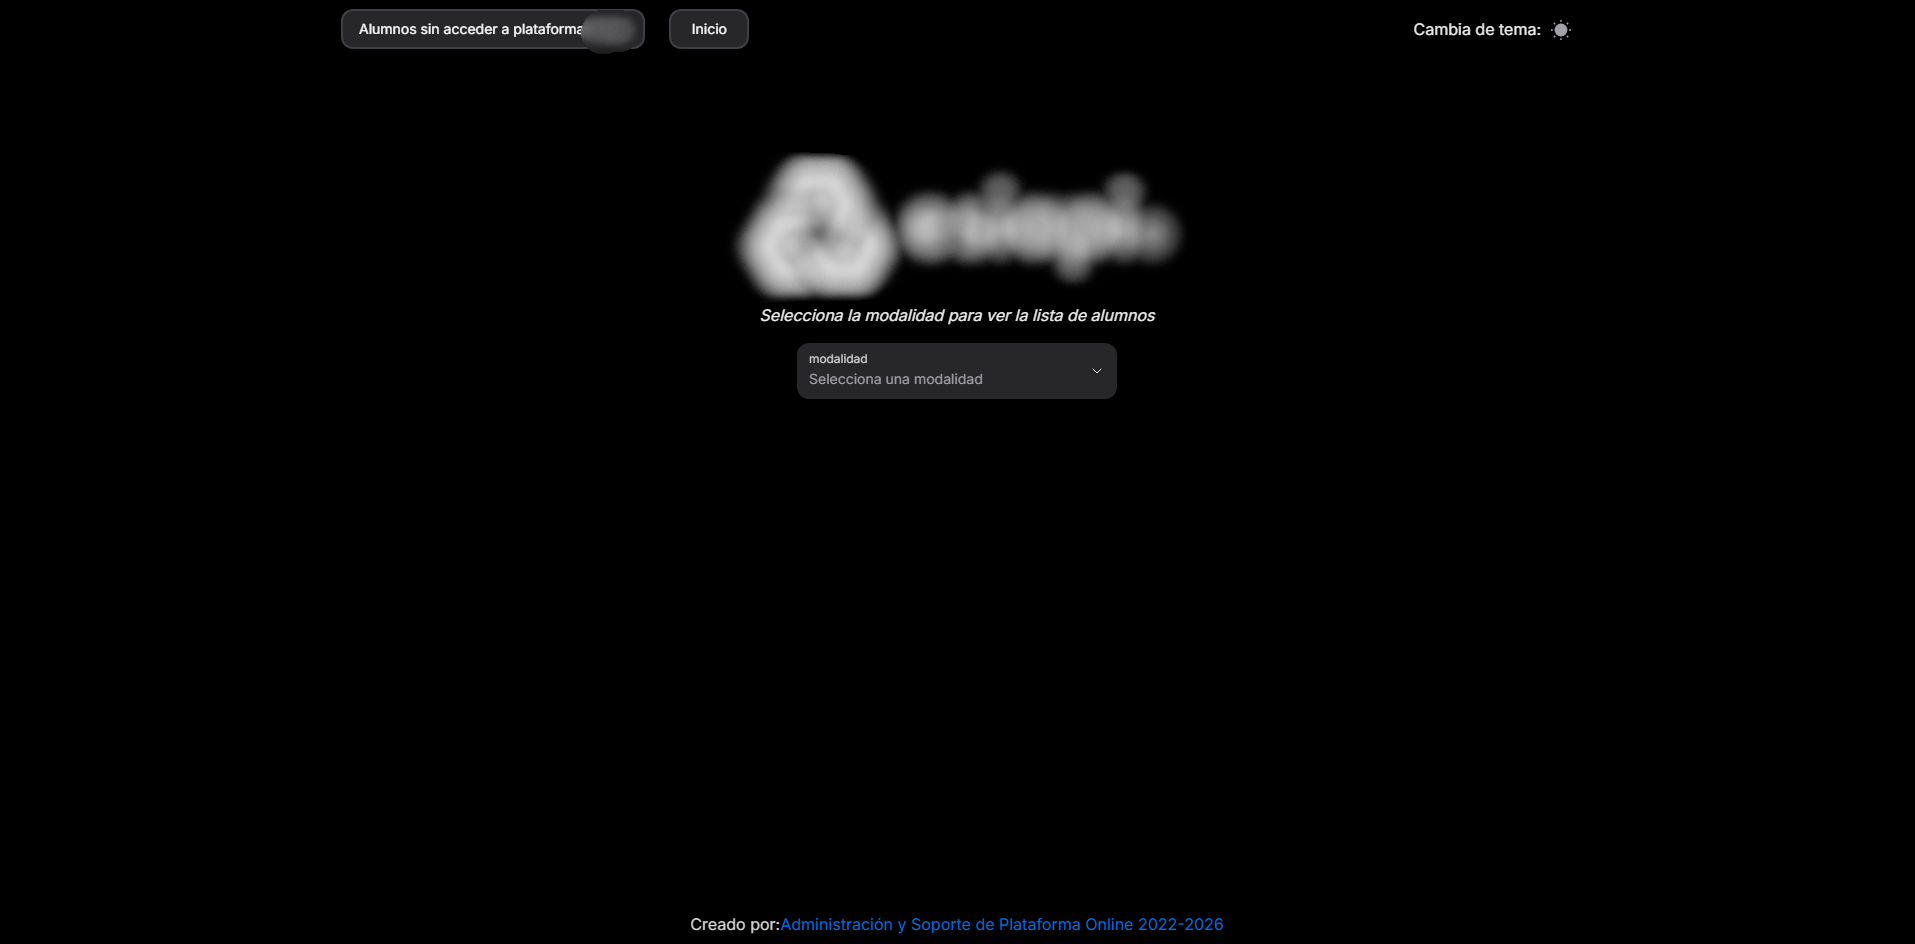
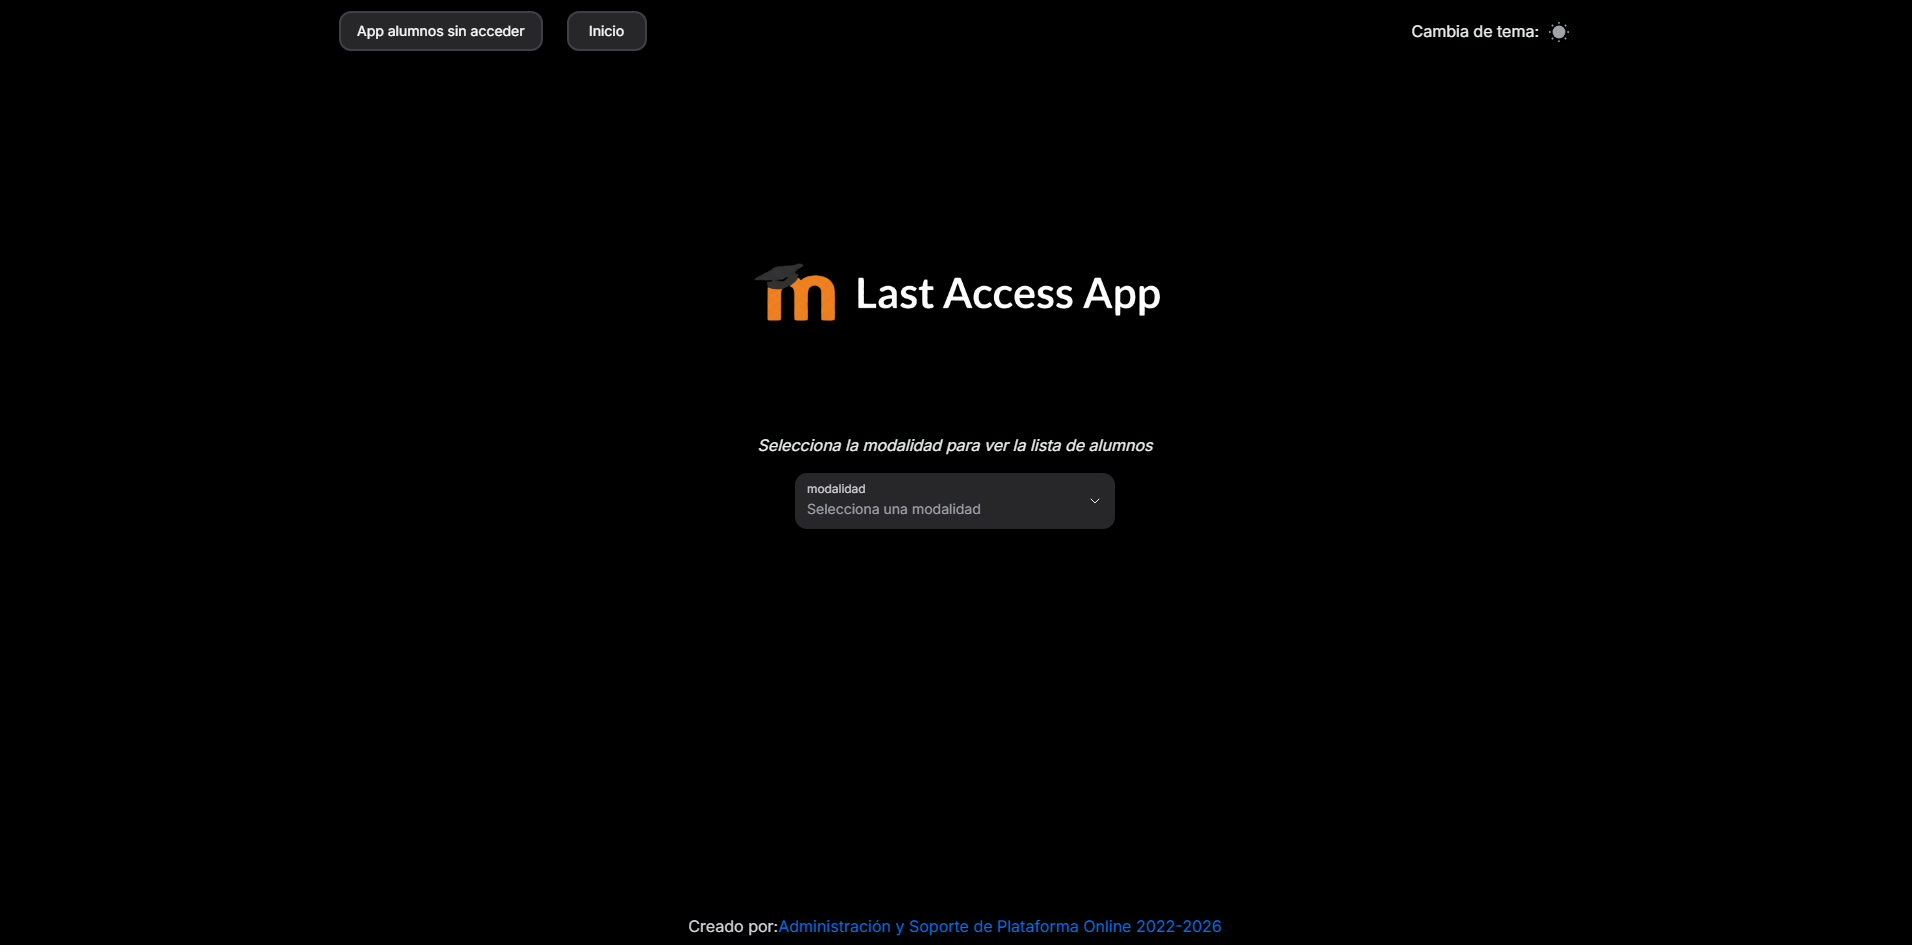
adding dark-to-light image button to 'last access project' page

diff --git a/src/pages/lastAccessPj.jsx b/src/pages/lastAccessPj.jsx
@@ -12,18 +12,17 @@ import mysqlimg from "../assets/mysql.png"
 import langselector from "../assets/languageselector.jpg"
 
 const Lastaccessproject = () => {
-    const [theme, setTheme] = React.useState("blanco");
+    const [theme, setTheme] = React.useState("light");
     const darkmode = (e) => {
-        e = theme
-        return e
+        setTheme(e)
     }
     return (
         <div className="justify-items-center">
             <div className="pb-10">
-                <h1 className=" place-self-center font-bold text-3xl pb-5">Last Access App for Moodle {theme}</h1>
+                <h1 className=" place-self-center font-bold text-3xl pb-5">Last Access App for Moodle</h1>
             </div>
             <div className="flex flex-row justify-center pb-10 ">
-                <img className="size-5/12 rounded-lg px-2 mask-r-from-60%" src={light}></img>
+                <img className="size-5/12 rounded-lg px-2 mask-r-from-60%" src={theme == "light"? light:dark}></img>
                 <div className="px-2">
                     <p className="place-self-center text-justify w-2xl">This app has as objetive to recollect the last access data
                         from students registered from custom courses. it is connected by a functional moodle plattform database.
@@ -32,7 +31,8 @@ const Lastaccessproject = () => {
                         i developed for my actual work that has a moodle plattform and i deployed localy for my co workers to use only in their work computer,
                         that is why i don't have a link to share
                     </p>
-                    <button onClick={darkmode("dark")} className="cursor-pointer">Clic to change the image to dark mode</button>
+                    <button onClick={clickbutton=>darkmode(theme=="light"?"dark":"light")}
+                     className="cursor-pointer font-bold">Click to change the image to {theme=="light"?"dark":"light"} mode</button>
                 </div>
             </div>
 
@@ -78,7 +78,7 @@ const Lastaccessproject = () => {
             </div>
             <div className="grid grid-cols-2 place-content-evenly gap-4 pb-52">
                 <div className=" w-2xl">
-                    <p className="pb-5  ">You can see every student that is not entering to their coursees form at least 15 days or never status</p>
+                    <p className="pb-5  ">You can see every student that is not entering to their courses form at least 15 days or never status</p>
                     <img className="rounded-lg mask-t-from-90%" src={table}></img>
                 </div>
                 <div>
@@ -88,7 +88,7 @@ const Lastaccessproject = () => {
                         {/* <img className="px-2 mask-b-from-50% mask-radial-[50%_90%] mask-radial-from-80%" src={downloadedfile}></img> */}
                     </div>
                     <div>
-                        <p>To see more information about the code, you can go to the repositorie</p>
+                        <p>To see more information about the code, you can go to the repositorie:</p>
                         <button className="rounded-md bg-violet-300 p-1.5
                  cursor-pointer hover:bg-violet-400 shadow-md"
                             onClick={() => { window.open("https://github.com/Daliens01") }}>Repositorie</button>

diff --git a/src/Routes/projects.jsx b/src/Routes/projects.jsx
@@ -1,5 +1,5 @@
 import React from 'react'
-import BgHome from "../assets/card1.png"
+import BgHome from "../assets/dark.png"
 const Projects = () => {
     return (
         <div className='my-8   '>
